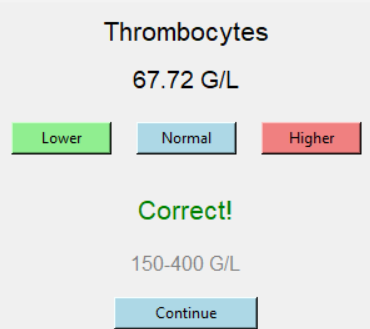
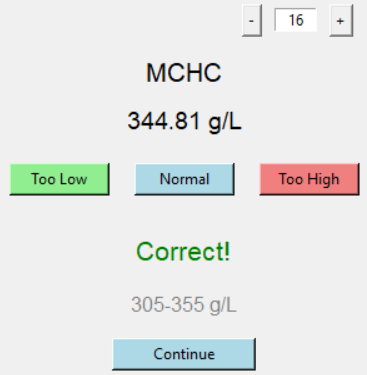
1.0.1 font size control

diff --git a/main.py b/main.py
@@ -2,7 +2,7 @@ import tkinter as tk
 import csv
 import random
 
-# Function to load the CSV file
+# func load csv
 def load_csv_to_dict(filename):
     try:
         with open(filename, mode='r') as file:
@@ -18,19 +18,18 @@ def load_csv_to_dict(filename):
         print(f"Error: {e}")
         exit()
 
-# Function to generate a random value using the rand_min and rand_max values
+# func to gen random value
 def dynamic_random(rand_min, rand_max):
-    # Generate a random value within the provided rand_min and rand_max range
     random_value = round(random.uniform(rand_min, rand_max), 2)
-    return max(random_value, 0)  # Ensure it's not below 0
+    return max(random_value, 0)  # clamp
 
-# Function to display a new question
+# func 4 display new question
 def new_question():
     global current_row, random_value
-    current_row = random.choice(data)  # Pick a random row from data
-    name_label.config(text=current_row['name'], font=("Arial", 16))
+    current_row = random.choice(data)  # pick a random row from data
+    name_label.config(text=current_row['name'])
 
-    # Get and validate rand_min and rand_max
+    # get and validate rand_min and rand_max
     try:
         rand_min = float(current_row['rand_min']) if current_row['rand_min'] else 0
         rand_max = float(current_row['rand_max']) if current_row['rand_max'] else 100
@@ -38,19 +37,19 @@ def new_question():
         rand_min = 0
         rand_max = 100
 
-    random_value = dynamic_random(rand_min, rand_max)  # Generate the random value
+    random_value = dynamic_random(rand_min, rand_max)  # generate random value
     value_label.config(text=f"{random_value} {current_row['unit']}")
 
-    # Hide feedback section and show question section
+    # hide feedback section & show question section
     feedback_frame.pack_forget()
     question_frame.pack()
 
-# Function to handle user input for Less Than, Within, Greater Than buttons
+# func user input buttons
 def check_answer(answer_type):
     min_val = float(current_row['min'])
     max_val = float(current_row['max'])
 
-    # Check the answer type and compare the random value
+    # check the answer type and compare the random value
     if answer_type == "less_than":
         is_correct = random_value < min_val
     elif answer_type == "within":
@@ -58,78 +57,123 @@ def check_answer(answer_type):
     else:  # answer_type == "greater_than"
         is_correct = random_value > max_val
 
-    # Hide the question section and show the feedback section
+    # hide the question section and show the feedback section
     question_frame.pack_forget()
     feedback_frame.pack()
 
-    # Update feedback message
+    # update feedback message
     if is_correct:
-        feedback_label.config(text="Correct!", fg="green", font=("Arial", 16))
+        feedback_label.config(text="Correct!", fg="green")
     else:
-        feedback_label.config(text="Incorrect!", fg="red", font=("Arial", 16))
+        feedback_label.config(text="Incorrect!", fg="red")
 
-    # Show the note
-    note_label.config(text=current_row['note'], font=("Arial", 12), fg="gray")
+    # show note
+    note_label.config(text=current_row['note'], fg="gray")
 
-# Function to simulate button press effect
+# func adjust font size
+def adjust_font_size(delta):
+    global font_size
+    font_size += delta
+    font_size = max(8, font_size)  # clamp at 8
+
+    update_font_size()
+
+# func update font size and input box value
+def update_font_size():
+    name_label.config(font=("Arial", font_size))
+    value_label.config(font=("Arial", font_size))
+    feedback_label.config(font=("Arial", font_size))
+    note_label.config(font=("Arial", font_size - 4))
+    font_size_entry.delete(0, tk.END)
+    font_size_entry.insert(0, str(font_size))
+
+# func set font size from input box
+def set_font_size(event=None):
+    global font_size
+    try:
+        new_size = int(font_size_entry.get())
+        font_size = max(8, new_size)  # clamp at 8
+        update_font_size()
+    except ValueError:
+        font_size_entry.delete(0, tk.END)
+        font_size_entry.insert(0, str(font_size))
+
+# func button sunken
 def press_button_effect(button):
     button.config(relief="sunken")
     root.update_idletasks()
     root.after(100, lambda: button.config(relief="raised"))
 
-# Load data from CSV before starting the Tkinter GUI loop
-filename = "lab_value.csv"  # Make sure the CSV file is in the correct directory
-data = load_csv_to_dict(filename)  # Load the CSV data into the `data` variable
+# load data from CSV before starting the Tkinter GUI loop
+filename = "lab_value.csv"  # make sure the CSV file is in the correct directory
+data = load_csv_to_dict(filename)  # load the CSV data into the `data` variable
 
 # Tkinter GUI setup
 root = tk.Tk()
 root.title("Lab Value Quiz")
+font_size = 16  # default font size
 
-# Widgets for the question and feedback section
-name_label = tk.Label(root, text="", font=("Arial", 16), pady=10)
+# top-right control buttons
+control_frame = tk.Frame(root)
+control_frame.pack(anchor="ne", padx=10, pady=5)
+
+increase_font_button = tk.Button(control_frame, text="+", command=lambda: adjust_font_size(1))
+increase_font_button.grid(row=0, column=2, padx=5)
+
+font_size_entry = tk.Entry(control_frame, width=5, justify="center")
+font_size_entry.grid(row=0, column=1, padx=5)
+font_size_entry.insert(0, str(font_size))
+font_size_entry.bind("<Return>", set_font_size)
+
+
+decrease_font_button = tk.Button(control_frame, text="-", command=lambda: adjust_font_size(-1))
+decrease_font_button.grid(row=0, column=0, padx=5)
+
+# question and feedback section
+name_label = tk.Label(root, text="", font=("Arial", font_size), pady=10)
 name_label.pack()
 
-# Feedback section for Correct/Incorrect
+# feedback section
 feedback_frame = tk.Frame(root)
-feedback_label = tk.Label(feedback_frame, text="", font=("Arial", 16))
+feedback_label = tk.Label(feedback_frame, text="", font=("Arial", font_size))
 feedback_label.pack(pady=10)
 
-note_label = tk.Label(feedback_frame, text="", font=("Arial", 12), fg="gray")
+note_label = tk.Label(feedback_frame, text="", font=("Arial", font_size - 4), fg="gray")
 note_label.pack(pady=5)
 
 continue_button = tk.Button(feedback_frame, text="Continue", command=new_question, bg="lightblue", width=15)
 continue_button.pack(pady=10)
 
-# Question section (will be replaced by feedback section when user answers)
-value_label = tk.Label(root, text="", font=("Arial", 14))
+# question section
+value_label = tk.Label(root, text="", font=("Arial", font_size - 2))
 value_label.pack()
 
 button_frame = tk.Frame(root)
 button_frame.pack(pady=20)
 
-# Buttons for Less Than, Within, Greater Than answers
-less_than_button = tk.Button(button_frame, text="Lower", command=lambda: check_answer("less_than"), bg="lightgreen", width=10)
+# too low, normal, too high buttons
+less_than_button = tk.Button(button_frame, text="Too Low", command=lambda: check_answer("less_than"), bg="lightgreen", width=10)
 less_than_button.grid(row=0, column=0, padx=10)
 
 within_button = tk.Button(button_frame, text="Normal", command=lambda: check_answer("within"), bg="lightblue", width=10)
 within_button.grid(row=0, column=1, padx=10)
 
-greater_than_button = tk.Button(button_frame, text="Higher", command=lambda: check_answer("greater_than"), bg="lightcoral", width=10)
+greater_than_button = tk.Button(button_frame, text="Too High", command=lambda: check_answer("greater_than"), bg="lightcoral", width=10)
 greater_than_button.grid(row=0, column=2, padx=10)
 
-# Bind keyboard shortcuts to buttons with press effect
+# keyboard shortcuts
 root.bind("j", lambda event: (press_button_effect(less_than_button), check_answer("less_than")))
 root.bind("k", lambda event: (press_button_effect(within_button), check_answer("within")))
 root.bind("l", lambda event: (press_button_effect(greater_than_button), check_answer("greater_than")))
 root.bind("<space>", lambda event: (press_button_effect(continue_button), new_question()))
 
-# Widgets for the question section (hidden initially)
+# question section
 question_frame = tk.Frame(root)
 
-# Start with a question
+# start with a question
 current_row = {}
 random_value = 0
 new_question()
 
-# Start the Tkinter event loop
+# start the Tkinter event loop
 root.mainloop()

diff --git a/README.md b/README.md
@@ -40,3 +40,11 @@ sample lab_value.csv is provided
 <h3>Known Issues</h3>
 Not displaying colors
 <br>Mu(μ) symbol is not displaying properly
+<br>Cursor stuck in the font size input bar
+
+<h3>Change Log</h3>
+
+| version | note                     |
+| ------- | ------------------------ |
+| v1.0.1  | Added Font Size Controls |
+| v1.0    | Initial elease           |
